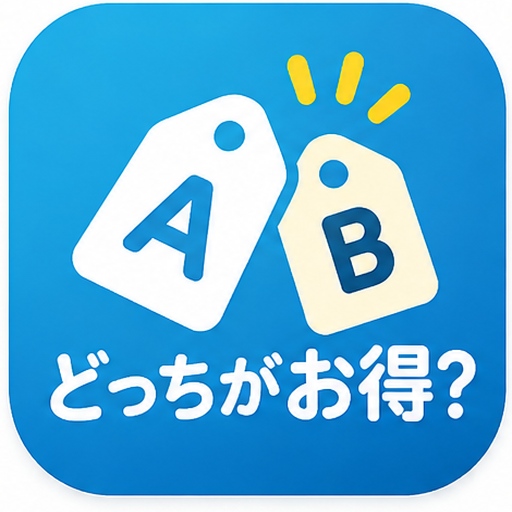
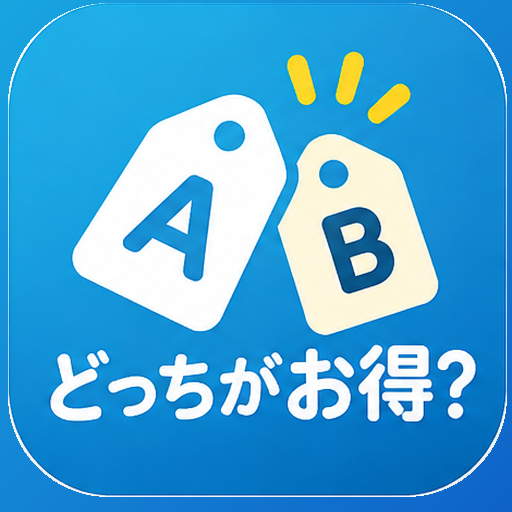
Add files via upload

Changed region(s): [[0.0, 0.0, 1.0, 1.0]]

diff --git a/index.html b/index.html
@@ -1,10 +1,10 @@
-<!doctype html><html lang="ja"><head><meta charset="utf-8"><meta name="viewport" content="width=device-width,initial-scale=1,viewport-fit=cover"><meta name="theme-color" content="#168bdb"><meta name="description" content="値段と内容量を入れるだけ。どっちがお得かすぐわかる無料の単価比較アプリ。"><link rel="manifest" href="manifest.webmanifest?v=3"><link rel="apple-touch-icon" sizes="512x512" href="icon.png?v=3"><title>どっちがお得？｜かんたん単価比較</title><style>
+<!doctype html><html lang="ja"><head><meta charset="utf-8"><meta name="viewport" content="width=device-width,initial-scale=1,viewport-fit=cover"><meta name="theme-color" content="#168bdb"><meta name="description" content="値段と内容量を入れるだけ。どっちがお得かすぐわかる無料の単価比較アプリ。"><link rel="manifest" href="manifest.webmanifest?v=5"><link rel="apple-touch-icon" sizes="512x512" href="icon.png?v=5"><title>どっちがお得？｜かんたん単価比較</title><style>
 :root{font-family:-apple-system,BlinkMacSystemFont,'Hiragino Kaku Gothic ProN',Meiryo,sans-serif;color:#163d5d;background:#eaf6ff}*{box-sizing:border-box}body{margin:0;min-height:100vh;background:linear-gradient(180deg,#d7f0ff,#f5fbff 50%)}button,input,select{font:inherit}button{cursor:pointer}main{max-width:600px;margin:auto;padding:16px 15px 90px}.hero{background:#ffffff;color:#176ca9;border:1px solid #d7eafa;border-radius:26px;padding:17px 18px;display:flex;gap:15px;align-items:center;box-shadow:0 8px 20px #177bbd30}.hero img{width:77px;height:77px;border-radius:19px;object-fit:cover}.hero h1{font-size:24px;letter-spacing:-.04em;margin:0 0 6px}.hero p{font-size:12px;margin:0;color:#2879ad;opacity:1}.panel{background:white;border:1px solid #d9ecf9;border-radius:23px;padding:18px;margin-top:15px;box-shadow:0 5px 15px #2a81bd13}.sectiontitle{font-weight:800;font-size:16px;margin:0 0 14px}.topline{display:flex;align-items:center;justify-content:space-between;gap:10px}.small{font-size:12px;color:#65859b}.units{display:flex;gap:5px;flex-wrap:wrap}.units button{border:1px solid #c6e3f7;background:#f0f8ff;border-radius:11px;color:#2877ae;padding:7px 11px;font-weight:700;font-size:12px}.units button.active{background:#167fd0;color:white;border-color:#167fd0}.product{background:#f0f8ff;border:1px solid #dceefb;border-radius:18px;padding:15px;margin:11px 0}.product:nth-child(odd){background:#f5faff}.phead{display:flex;justify-content:space-between;align-items:center;margin-bottom:12px}.tag{background:#1787d7;color:white;border-radius:10px;padding:6px 11px;font-weight:800}.remove{border:0;background:transparent;color:#7c96a8;font-size:12px}.fields{display:grid;grid-template-columns:1fr 1fr;gap:11px}.field{display:flex;flex-direction:column;gap:6px;font-size:12px;color:#456d87;font-weight:700}.field input,.field select{width:100%;border:1px solid #c9e2f2;background:white;border-radius:12px;padding:11px 9px;min-width:0;color:#143e61;font-size:18px;font-weight:800;outline-color:#178cda}.field select{font-size:15px}.product .extra{margin-top:10px;display:grid;grid-template-columns:1fr;gap:11px}.product .extra input{font-size:15px}.product .extra select{font-size:15px}.add{width:100%;border:2px dashed #9acff1;background:#f4faff;color:#1678bb;border-radius:15px;padding:13px;font-weight:800}.result{background:linear-gradient(180deg,#fff,#f7fcff);text-align:center}.winner{font-size:26px;font-weight:900;color:#168c64;margin:10px 0}.saving{font-size:14px;font-weight:700;color:#20805f;margin-bottom:12px}.prices{display:grid;grid-template-columns:repeat(2,minmax(0,1fr));gap:9px}.pricebox{border-radius:14px;padding:12px 5px;background:#eff5f9}.pricebox.best{background:#def7e9;border:2px solid #8dd8ad}.pricebox .name{font-size:12px;color:#50718a}.pricebox strong{display:block;font-size:20px;margin-top:5px}.buttons{display:flex;gap:10px;margin-top:14px}.primary,.secondary{border:0;border-radius:14px;padding:13px 12px;font-weight:800;flex:1}.primary{background:#1386d8;color:white;box-shadow:0 4px 10px #1386d82c}.secondary{background:#e8f4fc;color:#236d9e}.historyitem{display:flex;justify-content:space-between;align-items:center;border-bottom:1px solid #e4eff7;padding:12px 0;gap:8px}.historyitem:last-child{border:0}.savebar{display:flex;gap:10px;align-items:stretch;margin-top:14px}.savebar input{width:44%;min-width:0;border:1px solid #c9e2f2;border-radius:13px;padding:10px;font-size:16px;color:#163d5d;background:#fff}.savebar .primary{min-width:0}.historyactions{display:flex;gap:6px;flex-shrink:0}.historyitem .deleteone{background:#fff0f0;color:#b83d47}.historyitem button{border:0;background:#e8f4fc;border-radius:9px;padding:8px 10px;color:#176fa8;font-weight:700}.empty{color:#7c94a5;font-size:13px;text-align:center;padding:10px}.foot{text-align:center;color:#66869b;font-size:11px;margin-top:18px}.notice{font-size:12px;color:#708a9e;margin:10px 0 0;line-height:1.6}@media(max-width:380px){.hero h1{font-size:21px}.hero img{width:64px;height:64px}.panel{padding:13px}.field input{font-size:16px}}
-</style></head><body><main><header class="hero"><img src="icon.png" alt="AとBの値札ロゴ"><div><h1>どっちがお得？</h1><p>値段と量を入れるだけ！かんたん比較</p></div></header><section class="panel"><div class="topline"><h2 class="sectiontitle">🛒 商品を比較</h2><span class="small">入力すると自動計算</span></div><div class="topline" style="margin-bottom:12px"><span class="small">比べる単位</span><div class="units" id="units"></div></div><div id="products"></div><button class="add" id="add">＋ 比較する商品を追加</button><div class="buttons"><button class="secondary" id="reset">↻ リセット</button></div><div class="savebar"><input id="comparisonName" type="text" maxlength="60" aria-label="保存する商品名" placeholder="商品名（例：洗剤）"><button class="primary" id="save">☆ この比較を保存</button></div></section><section class="panel result" aria-live="polite"><div class="small">✨ 比較結果</div><div id="result"></div></section><section class="panel"><div class="topline"><h2 class="sectiontitle">🕘 比較履歴</h2><button class="remove" id="clear">履歴を消去</button></div><div id="history"></div></section><p class="foot">会員登録不要・無料・入力内容はこの端末に保存されます · v4</p></main><script>
+</style></head><body><main><header class="hero"><img src="icon.png?v=5" alt="AとBの値札ロゴ"><div><h1>どっちがお得？</h1><p>値段と量を入れるだけ！かんたん比較</p></div></header><section class="panel"><div class="topline"><h2 class="sectiontitle">🛒 商品を比較</h2><span class="small">入力すると自動計算</span></div><div class="topline" style="margin-bottom:12px"><span class="small">比べる単位</span><div class="units" id="units"></div></div><div id="products"></div><button class="add" id="add">＋ 比較する商品を追加</button><div class="buttons"><button class="secondary" id="reset">↻ リセット</button></div><div class="savebar"><input id="comparisonName" type="text" maxlength="60" aria-label="保存する商品名" placeholder="商品名（例：洗剤）"><button class="primary" id="save">☆ この比較を保存</button></div></section><section class="panel result" aria-live="polite"><div class="small">✨ 比較結果</div><div id="result"></div></section><section class="panel"><div class="topline"><h2 class="sectiontitle">🕘 比較履歴</h2><button class="remove" id="clear">履歴を消去</button></div><div id="history"></div></section><p class="foot">会員登録不要・無料・入力内容はこの端末に保存されます · v5</p></main><script>
 const KEY='dochiga-otoku-history-v1';const categories={g:['g','kg'],ml:['ml','L'],個:['個'],枚:['枚'],本:['本']};let category='g';let products=[{price:'298',qty:'450',unit:'g',packs:'1'},{price:'398',qty:'650',unit:'g',packs:'1'}];let history=[];try{history=JSON.parse(localStorage.getItem(KEY)||'[]');if(!Array.isArray(history))history=[]}catch(e){history=[]}
 const $=id=>document.getElementById(id);const yen=n=>new Intl.NumberFormat('ja-JP',{maximumFractionDigits:2}).format(n);const esc=s=>String(s).replace(/[&<>"']/g,c=>({'&':'&amp;','<':'&lt;','>':'&gt;','"':'&quot;',"'":'&#39;'}[c]));const baseUnit=u=>u==='kg'?'g':u==='L'?'ml':u;const factor=u=>(u==='kg'||u==='L')?1000:1;function amount(p){return Number(p.qty)*factor(p.unit)}function rate(p){const a=amount(p),v=Number(p.price);return a>0&&v>=0&&Number.isFinite(v)?v/a:NaN}function renderUnits(){ $('units').innerHTML=Object.keys(categories).map(c=>`<button data-cat="${c}" class="${category===c?'active':''}">${c}</button>`).join('');$('units').querySelectorAll('button').forEach(b=>b.onclick=()=>{category=b.dataset.cat;products=products.map(p=>({...p,unit:categories[category][0]}));render()})}
 function renderProducts(){ $('products').innerHTML=products.map((p,i)=>`<div class="product"><div class="phead"><span class="tag">商品 ${String.fromCharCode(65+i)}</span>${products.length>2?`<button class="remove" data-remove="${i}">✕ 削除</button>`:''}</div><div class="fields"><label class="field">値段（税込・円）<input type="number" min="0" step="any" inputmode="decimal" data-i="${i}" data-k="price" value="${esc(p.price)}" placeholder="例：298"></label><label class="field">内容量<select data-i="${i}" data-k="unit">${categories[category].map(u=>`<option ${p.unit===u?'selected':''} value="${u}">${u}</option>`).join('')}</select></label></div><div class="extra"><label class="field">量（${p.unit}）<input type="number" min="0" step="any" inputmode="decimal" data-i="${i}" data-k="qty" value="${esc(p.qty)}" placeholder="例：450"></label></div></div>`).join('');$('products').querySelectorAll('input,select').forEach(el=>{el.addEventListener('input',()=>{products[Number(el.dataset.i)][el.dataset.k]=el.value;renderResult()});el.addEventListener('change',()=>{products[Number(el.dataset.i)][el.dataset.k]=el.value;if(el.dataset.k==='unit')renderProducts();renderResult()})});$('products').querySelectorAll('[data-remove]').forEach(el=>el.onclick=()=>{products.splice(Number(el.dataset.remove),1);renderProducts();renderResult()});$('add').disabled=products.length>=8;$('add').textContent=products.length>=8?'最大8商品まで比較できます':'＋ 比較する商品を追加'}
 function renderResult(){const rs=products.map(rate);if(rs.some(n=>!Number.isFinite(n))||products.some(p=>Number(p.qty)<=0)){$('result').innerHTML='<p class="empty">価格は0以上、内容量は0より大きい数値を入力してください。</p>';return}const best=Math.min(...rs),winners=rs.map((v,i)=>Math.abs(v-best)<1e-10?i:-1).filter(i=>i>=0);const label=category==='g'?'100g':category==='ml'?'100ml':`1${category}`;const scale=(category==='g'||category==='ml')?100:1;const high=Math.max(...rs);const pct=high>0?(1-best/high)*100:0;$('result').innerHTML=`<div class="winner">${winners.length===products.length?'どの商品も同じ単価！':`🏆 商品 ${winners.map(i=>String.fromCharCode(65+i)).join('・')} がお得！`}</div><div class="saving">${winners.length===products.length?'単価に差はありません':`最も高い商品より約${yen(pct)}%割安`}</div><div class="prices">${rs.map((v,i)=>`<div class="pricebox ${winners.includes(i)?'best':''}"><span class="name">商品 ${String.fromCharCode(65+i)} ／ ${label}あたり</span><strong>${yen(v*scale)}円</strong></div>`).join('')}</div><p class="notice">同じ種類・品質の商品を比較してください。税込・税抜の条件も揃えてください。割安率は最高単価を基準に計算しています。</p>`}
 function renderHistory(){$('history').innerHTML=history.length?history.map((h,i)=>`<div class="historyitem"><div><strong>${h.name?esc(h.name):"名前なしの比較"}</strong><div class="small">${esc(h.date)} ／ ${h.products.length}商品・${esc(h.category)}で比較</div></div><div class="historyactions"><button data-load="${i}">呼び出す</button><button class="deleteone" data-delete="${i}" aria-label="${h.name?esc(h.name):"比較"}を削除">削除</button></div></div>`).join(''):'<p class="empty">保存した比較はまだありません</p>';$('history').querySelectorAll('[data-load]').forEach(b=>b.onclick=()=>{const h=history[Number(b.dataset.load)];category=h.category;products=h.products.map(p=>({...p}));render();$('comparisonName').value=h.name||'';scrollTo({top:0,behavior:'smooth'})});$('history').querySelectorAll('[data-delete]').forEach(b=>b.onclick=()=>{const i=Number(b.dataset.delete);if(confirm('「'+(history[i].name||'名前なしの比較')+'」を削除しますか？')){history.splice(i,1);localStorage.setItem(KEY,JSON.stringify(history));renderHistory()}})}function render(){renderUnits();renderProducts();renderResult();renderHistory()}
-$('add').onclick=()=>{if(products.length>=8)return;products.push({price:'',qty:'',unit:categories[category][0],packs:'1'});renderProducts();renderResult()};$('reset').onclick=()=>{$('comparisonName').value='';products=[{price:'',qty:'',unit:categories[category][0],packs:'1'},{price:'',qty:'',unit:categories[category][0],packs:'1'}];renderProducts();renderResult()};$('save').onclick=()=>{if(products.some(p=>!Number.isFinite(rate(p))||Number(p.qty)<=0)){alert('正しい価格・内容量を入力してください');return}history.unshift({name:$('comparisonName').value.trim(),date:new Date().toLocaleString('ja-JP'),category,products:products.map(p=>({...p}))});history=history.slice(0,30);try{localStorage.setItem(KEY,JSON.stringify(history));renderHistory();alert('比較を保存しました')}catch(e){alert('保存できませんでした。ブラウザの保存設定を確認してください')}};$('clear').onclick=()=>{if(confirm('保存した比較履歴をすべて削除しますか？')){history=[];localStorage.removeItem(KEY);renderHistory()}};render();if('serviceWorker'in navigator)window.addEventListener('load',()=>navigator.serviceWorker.register('./sw.js?v=4', {updateViaCache:'none'}).catch(()=>{}));
+$('add').onclick=()=>{if(products.length>=8)return;products.push({price:'',qty:'',unit:categories[category][0],packs:'1'});renderProducts();renderResult()};$('reset').onclick=()=>{$('comparisonName').value='';products=[{price:'',qty:'',unit:categories[category][0],packs:'1'},{price:'',qty:'',unit:categories[category][0],packs:'1'}];renderProducts();renderResult()};$('save').onclick=()=>{if(products.some(p=>!Number.isFinite(rate(p))||Number(p.qty)<=0)){alert('正しい価格・内容量を入力してください');return}history.unshift({name:$('comparisonName').value.trim(),date:new Date().toLocaleString('ja-JP'),category,products:products.map(p=>({...p}))});history=history.slice(0,30);try{localStorage.setItem(KEY,JSON.stringify(history));renderHistory();alert('比較を保存しました')}catch(e){alert('保存できませんでした。ブラウザの保存設定を確認してください')}};$('clear').onclick=()=>{if(confirm('保存した比較履歴をすべて削除しますか？')){history=[];localStorage.removeItem(KEY);renderHistory()}};render();if('serviceWorker'in navigator)window.addEventListener('load',()=>navigator.serviceWorker.register('./sw.js?v=5', {updateViaCache:'none'}).catch(()=>{}));
 </script></body></html>

diff --git a/sw.js b/sw.js
@@ -1,4 +1,4 @@
-const CACHE='dochiga-otoku-v4';const ASSETS=['./index.html','./icon.png','./manifest.webmanifest'];
+const CACHE='dochiga-otoku-v5';const ASSETS=['./index.html','./icon.png','./manifest.webmanifest'];
 self.addEventListener('install',event=>{event.waitUntil(caches.open(CACHE).then(cache=>cache.addAll(ASSETS)));self.skipWaiting()});
 self.addEventListener('activate',event=>{event.waitUntil(caches.keys().then(keys=>Promise.all(keys.filter(key=>key!==CACHE).map(key=>caches.delete(key)))));self.clients.claim()});
 self.addEventListener('fetch',event=>{if(event.request.method!=='GET')return;const url=new URL(event.request.url);if(url.origin!==self.location.origin)return;if(event.request.mode==='navigate'){event.respondWith(fetch(event.request).then(response=>{const copy=response.clone();caches.open(CACHE).then(cache=>cache.put('./index.html',copy));return response}).catch(()=>caches.match('./index.html')));return;}event.respondWith(fetch(event.request).then(response=>{if(response.ok){const copy=response.clone();caches.open(CACHE).then(cache=>cache.put(event.request,copy))}return response}).catch(()=>caches.match(event.request)))});
